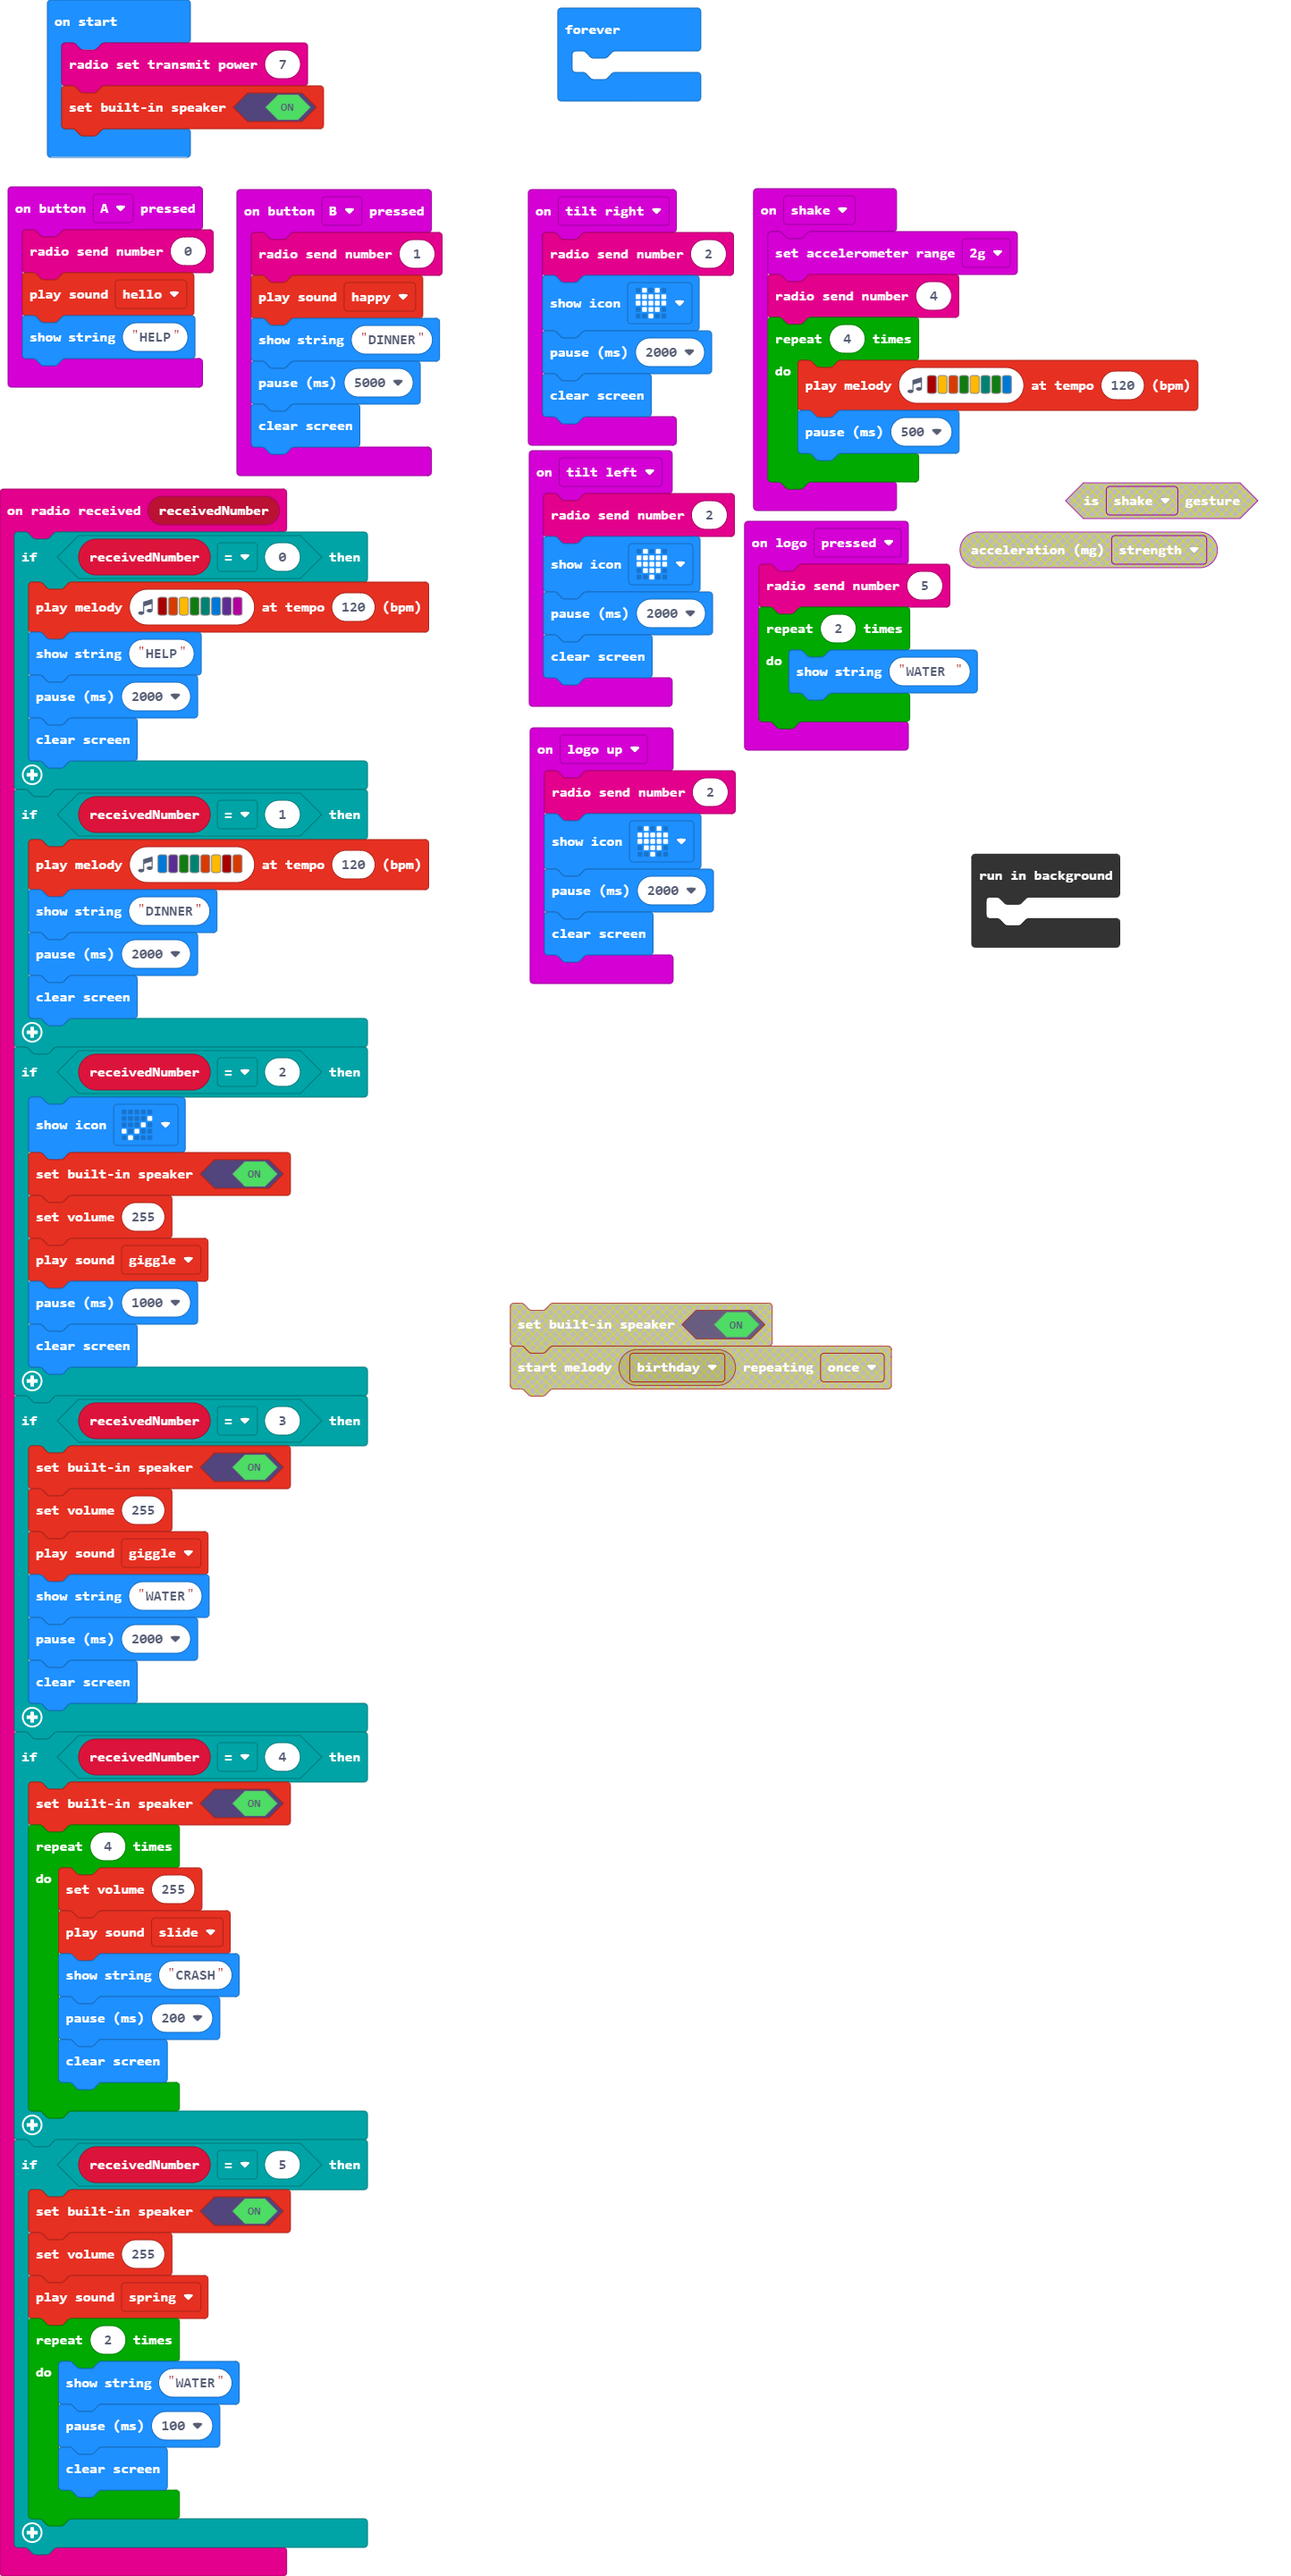
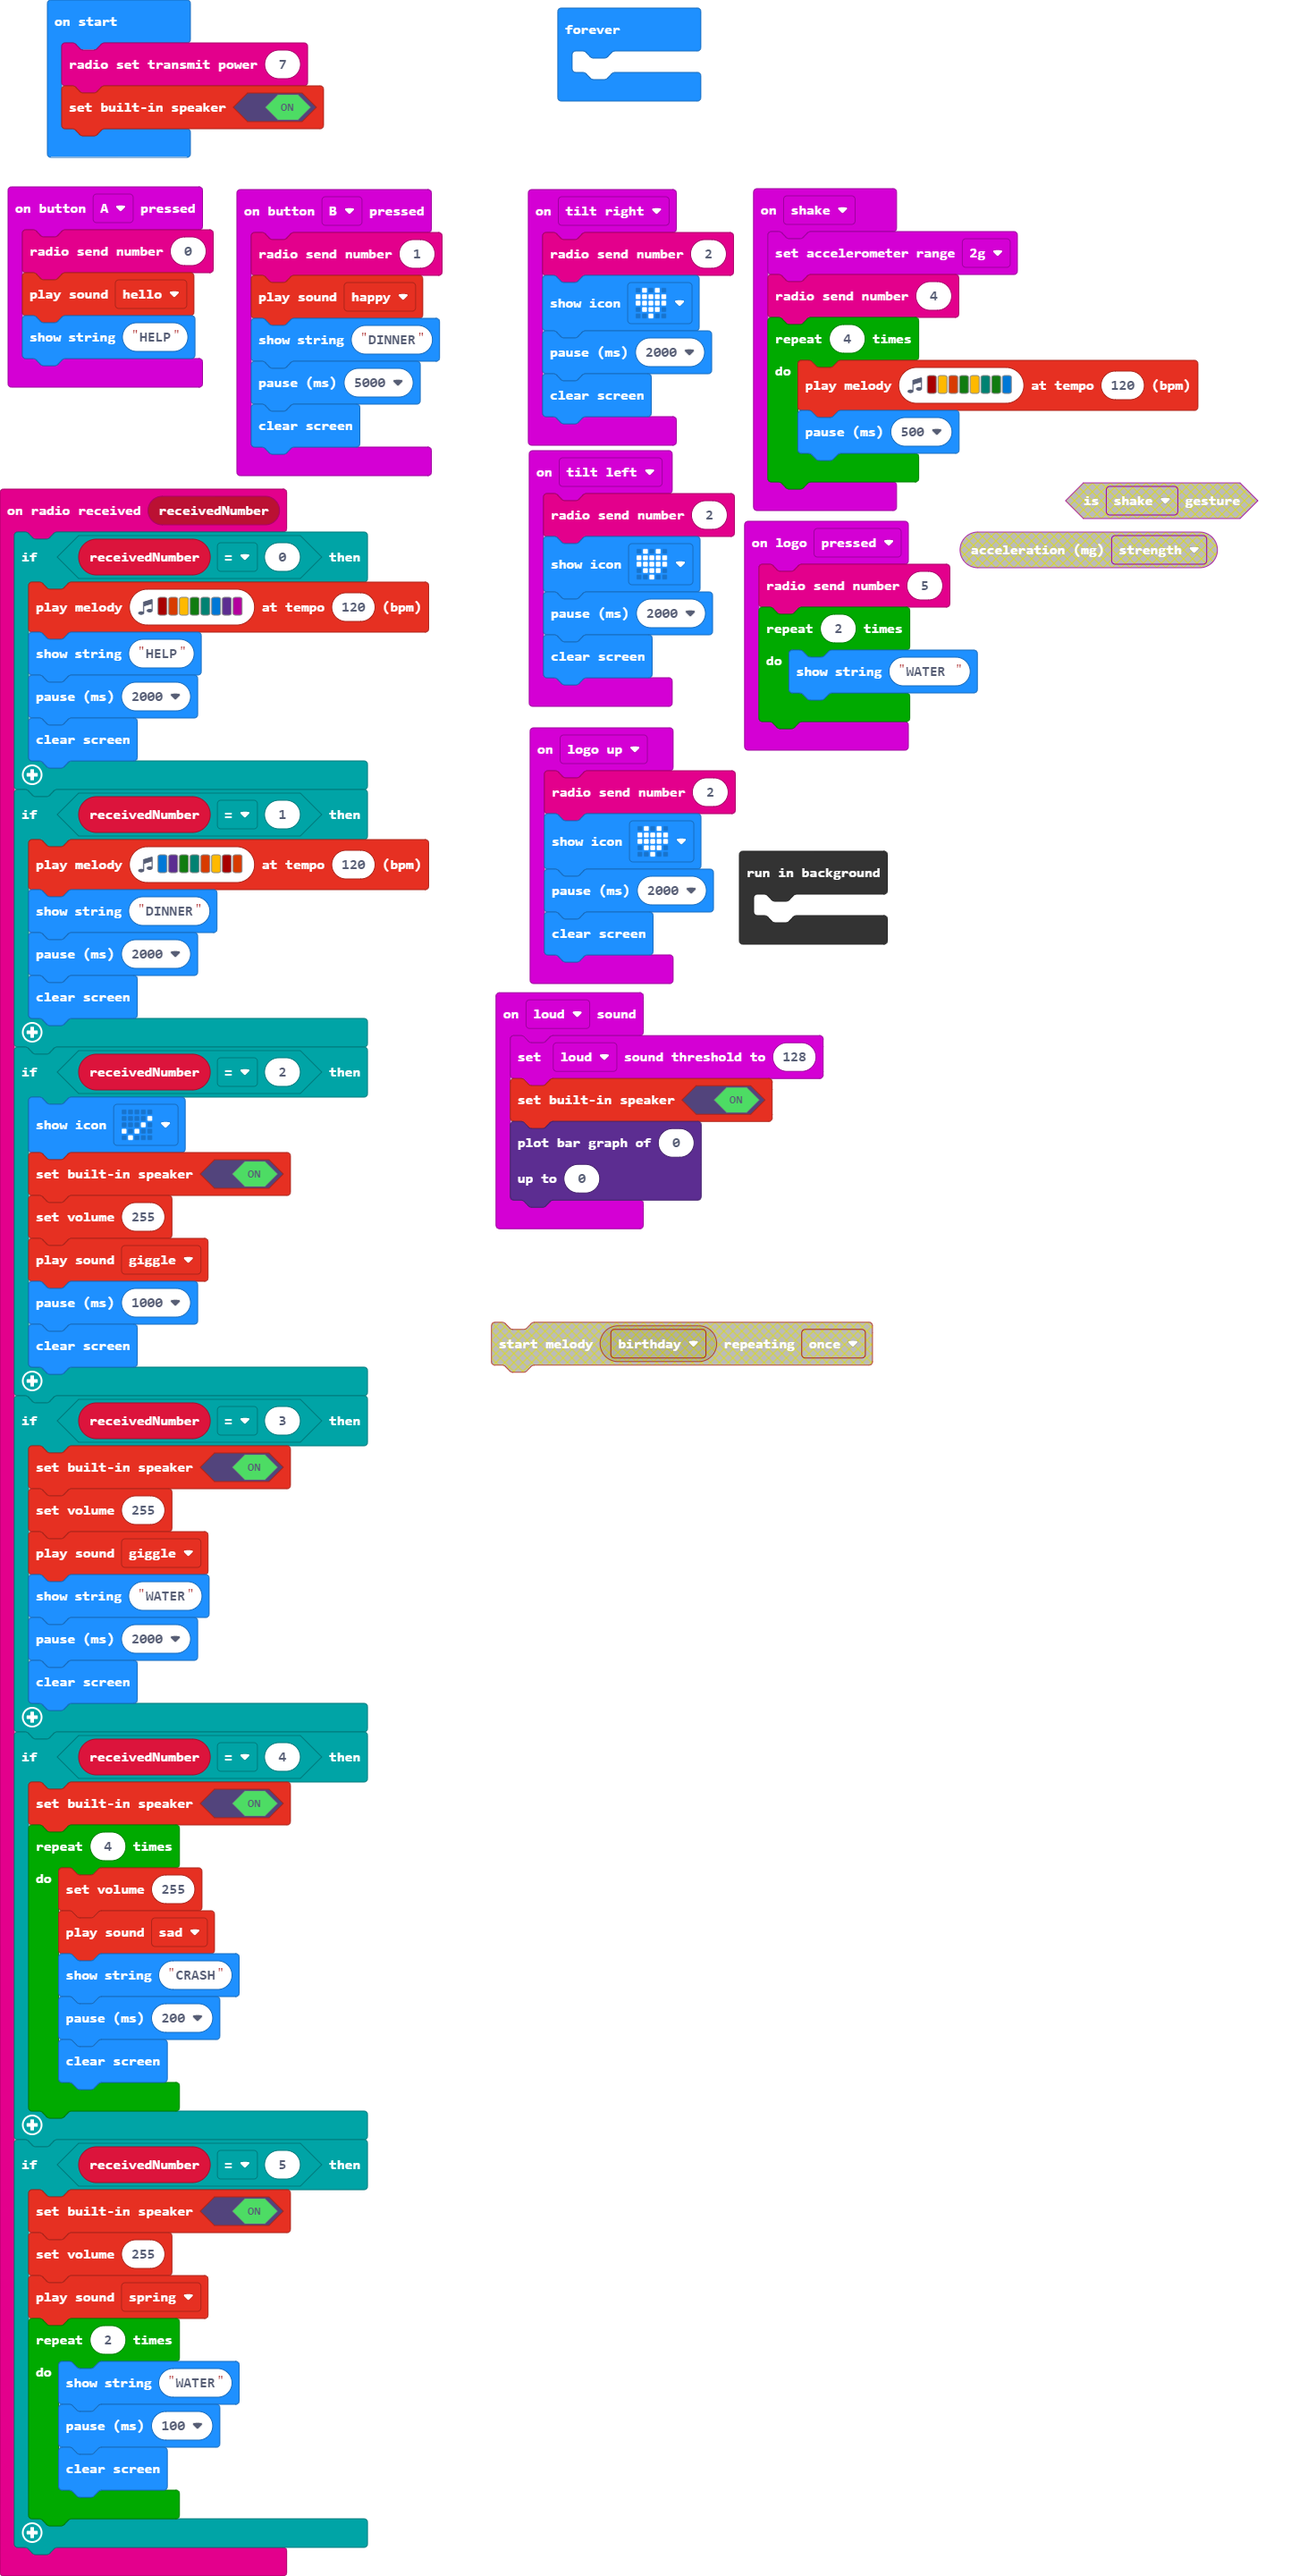
Update main.blocks, main.ts

Changed region(s): [[0.374, 0.3124, 0.6856, 0.5623], [0.7479, 0.3124, 0.8726, 0.3749], [0.1558, 0.7185, 0.187, 0.781]]

diff --git a/main.ts b/main.ts
@@ -31,7 +31,7 @@ radio.onReceivedNumber(function (receivedNumber) {
         music.setBuiltInSpeakerEnabled(true)
         for (let index = 0; index < 4; index++) {
             music.setVolume(255)
-            soundExpression.slide.play()
+            soundExpression.sad.play()
             basic.showString("CRASH")
             basic.pause(200)
             basic.clearScreen()
@@ -64,6 +64,14 @@ input.onGesture(Gesture.TiltLeft, function () {
     basic.showIcon(IconNames.Heart)
     basic.pause(2000)
     basic.clearScreen()
+})
+input.onSound(DetectedSound.Loud, function () {
+    input.setSoundThreshold(SoundThreshold.Loud, 128)
+    music.setBuiltInSpeakerEnabled(true)
+    led.plotBarGraph(
+    0,
+    0
+    )
 })
 input.onButtonPressed(Button.B, function () {
     radio.sendNumber(1)
